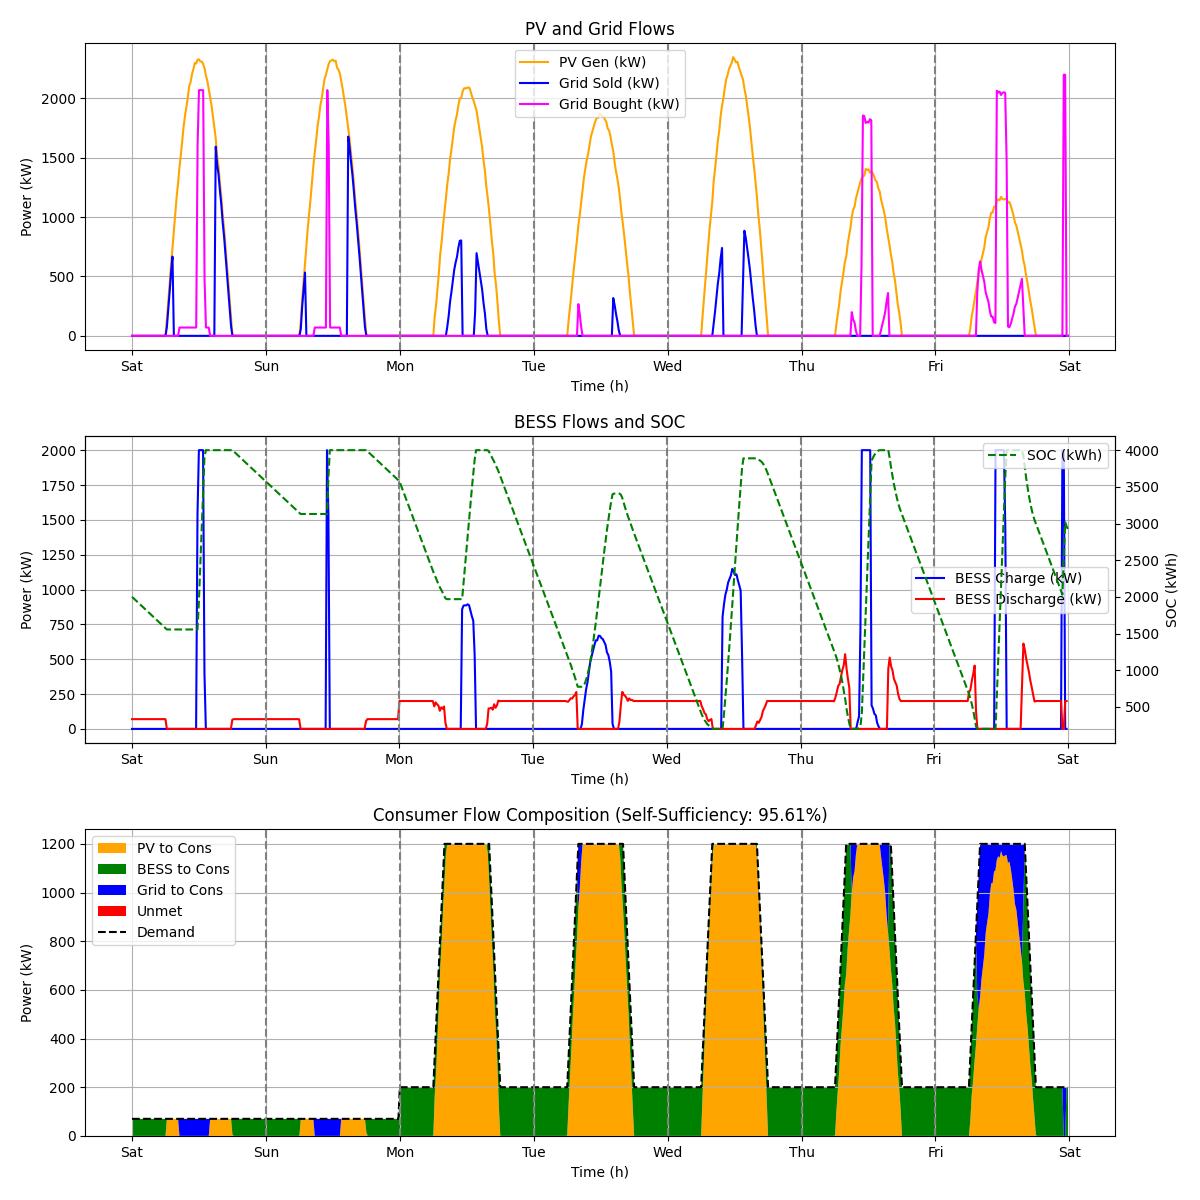
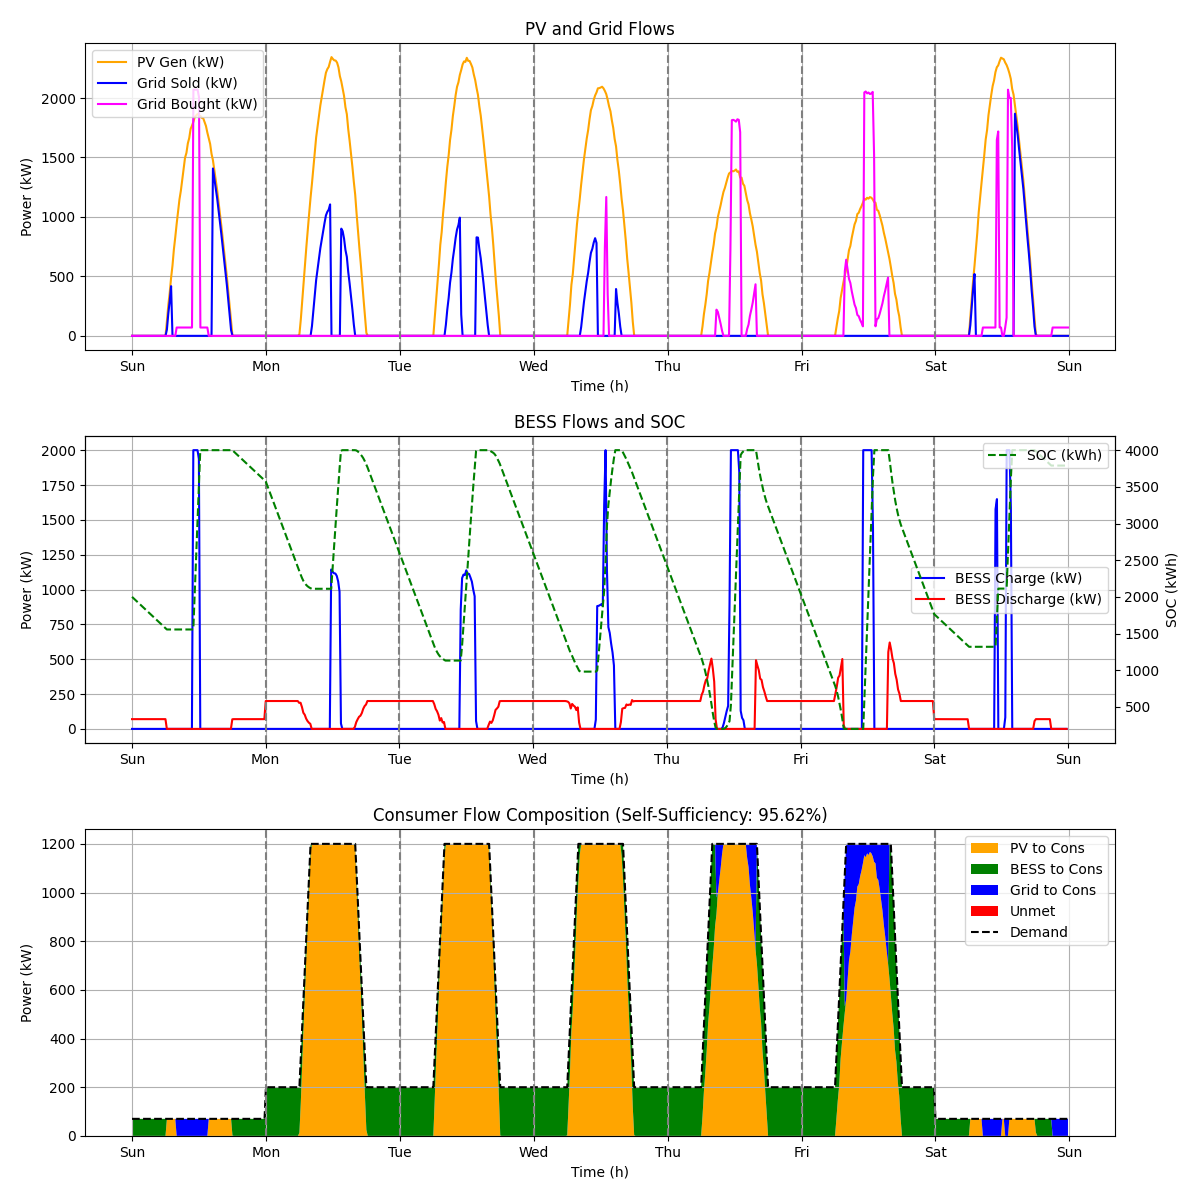
Parameters to run easly

diff --git a/Computing Files/main_Optimization.py b/Computing Files/main_Optimization.py
@@ -10,7 +10,7 @@ import numpy as np  # For cumsum and other ops in loop
 data = load_data.load()
 
 # MPC Parameters
-horizon = 144 # 36 hours at 15-min intervals; adjust as needed
+horizon = 50 # 24 hours at 15-min intervals; adjust as needed
 mpc_controller = mpc.MPC(
     data['bess_capacity'], data['bess_power_limit'], data['eta_charge'],
     data['eta_discharge'], data['lcoe_bess'], data['soc_initial'], data['delta_t']

diff --git a/Computing Files/mpc.py b/Computing Files/mpc.py
@@ -68,7 +68,7 @@ class MPC:
         objective = cp.Maximize(revenue)
 
         problem = cp.Problem(objective, constraints)
-        problem.solve(solver=cp.GUROBI, verbose=False, MIPGap=0.001)  # Relax for speed
+        problem.solve(solver=cp.GUROBI, verbose=False, MIPGap=0.01)  # Relax for speed
 
         if problem.status == 'optimal':
             return {

diff --git a/Computing Files/solve.py b/Computing Files/solve.py
@@ -2,5 +2,5 @@ import cvxpy as cp
 
 def solve_problem(objective, constraints):
     problem = cp.Problem(objective, constraints)
-    problem.solve(solver=cp.GUROBI, verbose=True)
+    problem.solve(solver=cp.GUROBI, verbose=True, MIPGap=0.01)
     return problem.status, problem
